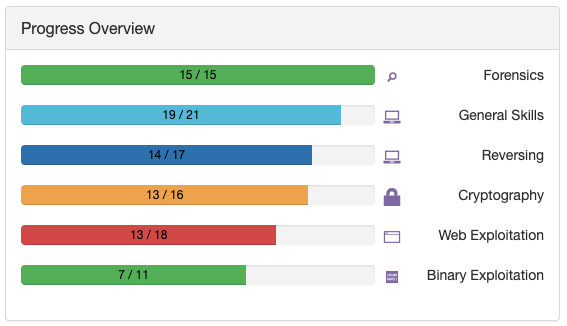
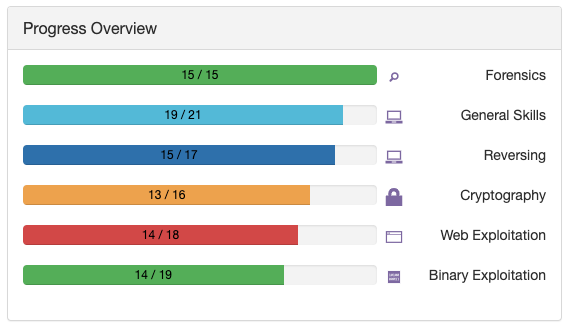
2019/09/05_picoCTF_2018_update

diff --git a/docs/post/picoctf_2018/index.html b/docs/post/picoctf_2018/index.html
@@ -43,15 +43,15 @@
 <meta property="og:type" content="article" />
 <meta property="og:url" content="https://captureamerica.github.io/writeups/post/picoctf_2018/" />
 <meta property="article:published_time" content="2019-08-11T23:00:00&#43;09:00"/>
-<meta property="article:modified_time" content="2019-08-25T22:00:00&#43;09:00"/>
+<meta property="article:modified_time" content="2019-09-05T22:00:00&#43;09:00"/>
 
 <meta itemprop="name" content="picoCTF 2018 Writeup">
 <meta itemprop="description" content="URL: https://2018game.picoctf.com/ すでにイベントは終了してるんですが、続けて勉強ができるようになっているので、他のCTFイベントがない平日とかにちょこちょこやってます。 問">
 
 
 <meta itemprop="datePublished" content="2019-08-11T23:00:00&#43;09:00" />
-<meta itemprop="dateModified" content="2019-08-25T22:00:00&#43;09:00" />
-<meta itemprop="wordCount" content="5583">
+<meta itemprop="dateModified" content="2019-09-05T22:00:00&#43;09:00" />
+<meta itemprop="wordCount" content="6271">
 
 
 
@@ -141,40 +141,45 @@
   <div class="post-toc-content always-active">
     <nav id="TableOfContents">
 <ul>
-<li><a href="#desrouleaux">Desrouleaux</a>
+<li><a href="#forensics-desrouleaux">Forensics: Desrouleaux</a>
 <ul>
 <li><a href="#challenge">Challenge</a></li>
 <li><a href="#solution">Solution</a></li>
 </ul></li>
-<li><a href="#safe-rsa">Safe RSA</a>
+<li><a href="#cryptography-safe-rsa">Cryptography: Safe RSA</a>
 <ul>
 <li><a href="#challenge-1">Challenge</a></li>
 <li><a href="#solution-1">Solution</a></li>
 </ul></li>
-<li><a href="#be-quick-or-be-dead-1">be-quick-or-be-dead-1</a>
+<li><a href="#reversing-be-quick-or-be-dead-1">Reversing: be-quick-or-be-dead-1</a>
 <ul>
 <li><a href="#challenge-2">Challenge</a></li>
 <li><a href="#solution-2">Solution</a></li>
 </ul></li>
-<li><a href="#keygen-me-1">keygen-me-1</a>
+<li><a href="#reversing-keygen-me-1">Reversing: keygen-me-1</a>
 <ul>
 <li><a href="#challenge-3">Challenge</a></li>
 <li><a href="#solution-3">Solution</a></li>
 </ul></li>
-<li><a href="#script-me">script me</a>
+<li><a href="#general-skills-script-me">General Skills: script me</a>
 <ul>
 <li><a href="#challenge-4">Challenge</a></li>
 <li><a href="#solution-4">Solution</a></li>
 </ul></li>
-<li><a href="#loadsomebits">LoadSomeBits</a>
+<li><a href="#forensics-loadsomebits">Forensics: LoadSomeBits</a>
 <ul>
 <li><a href="#challenge-5">Challenge</a></li>
 <li><a href="#solution-5">Solution</a></li>
 </ul></li>
-<li><a href="#keygen-me-2">keygen-me-2</a>
+<li><a href="#reversing-keygen-me-2">Reversing: keygen-me-2</a>
 <ul>
 <li><a href="#challenge-6">Challenge</a></li>
 <li><a href="#solution-6">Solution</a></li>
+</ul></li>
+<li><a href="#reversing-be-quick-or-be-dead-3">Reversing: be-quick-or-be-dead-3</a>
+<ul>
+<li><a href="#challenge-7">Challenge</a></li>
+<li><a href="#solution-7">Solution</a></li>
 </ul></li>
 </ul>
 </nav>
@@ -194,9 +199,9 @@
 
 <p><img src="https://captureamerica.github.io/writeups/img/pico_Score.png" alt="pico_Score.png"></p>
 
-<p>Web Exploitationは、サーバにアクセスできないやつがいくつかあって、進みません。。。</p>
+<p>もう、これくらいやったら十分かなぁ。気が向いたら、もう少しやるかもです。</p>
 
-<p>ReversingとBinary Exploitationは、続けて勉強していきます。その他のCrypto等は、、、もうスルーしようかと思います。</p>
+<p>picoCTF 2019がそろそろ始まりますね (2019年9月末〜)。楽しみ！！</p>
 
 <p><br /><br />
 ここでは、自分のオリジナル感が出るやつとか、自分自身の記録として残しておきたいものだけ書きます。
@@ -205,7 +210,7 @@
 
 <p><br /><br /></p>
 
-<h1 id="desrouleaux">Desrouleaux</h1>
+<h1 id="forensics-desrouleaux">Forensics: Desrouleaux</h1>
 
 <hr />
 
@@ -409,7 +414,7 @@ Hint: If you need to code, python has some good libraries for it.</p>
 <p><br /><br />
 <br /><br /></p>
 
-<h1 id="safe-rsa">Safe RSA</h1>
+<h1 id="cryptography-safe-rsa">Cryptography: Safe RSA</h1>
 
 <hr />
 
@@ -454,7 +459,7 @@ Flag: <code>picoCTF{e_w4y_t00_sm411_34096259}</code></p>
 <p><br /><br />
 <br /><br /></p>
 
-<h1 id="be-quick-or-be-dead-1">be-quick-or-be-dead-1</h1>
+<h1 id="reversing-be-quick-or-be-dead-1">Reversing: be-quick-or-be-dead-1</h1>
 
 <hr />
 
@@ -483,7 +488,7 @@ Hint: What will the key finally be?</p>
 <p><br /><br />
 <br /><br /></p>
 
-<h1 id="keygen-me-1">keygen-me-1</h1>
+<h1 id="reversing-keygen-me-1">Reversing: keygen-me-1</h1>
 
 <hr />
 
@@ -837,7 +842,7 @@ INVALID Product Key.</code></pre></td></tr></table>
 <p><br /><br />
 <br /><br /></p>
 
-<h1 id="script-me">script me</h1>
+<h1 id="general-skills-script-me">General Skills: script me</h1>
 
 <hr />
 
@@ -1139,7 +1144,7 @@ Congratulations, here&#39;s your flag: picoCTF{5cr1pt1nG_l1k3_4_pRo_0466cdd7}
 <p><br /><br />
 <br /><br /></p>
 
-<h1 id="loadsomebits">LoadSomeBits</h1>
+<h1 id="forensics-loadsomebits">Forensics: LoadSomeBits</h1>
 
 <hr />
 
@@ -1271,7 +1276,7 @@ Hint2: If you interpret a binary sequence (seq) as ascii and then try interpreti
 <p><br /><br />
 <br /><br /></p>
 
-<h1 id="keygen-me-2">keygen-me-2</h1>
+<h1 id="reversing-keygen-me-2">Reversing: keygen-me-2</h1>
 
 <hr />
 
@@ -1888,6 +1893,207 @@ Product Activated Successfully: picoCTF{c0n5tr41nt_50lv1nG_15_W4y_f45t3r_3846045
 <p><br /><br />
 <br /><br /></p>
 
+<h1 id="reversing-be-quick-or-be-dead-3">Reversing: be-quick-or-be-dead-3</h1>
+
+<hr />
+
+<h2 id="challenge-7">Challenge</h2>
+
+<blockquote>
+<p>As the <a href="https://www.youtube.com/watch?v=CTt1vk9nM9c">song</a> draws closer to the end, another executable be-quick-or-be-dead-3 suddenly pops up. This one requires even faster machines. Can you run it fast enough too?
+<br /><br />
+Hint: How do you speed up a very repetitive computation?</p>
+</blockquote>
+
+<p>Attachment:</p>
+
+<ul>
+<li>be-quick-or-be-dead-3  (ELF 64-bit)</li>
+</ul>
+
+<p><br /></p>
+
+<h2 id="solution-7">Solution</h2>
+
+<p>まず、Ghidraにかけます。</p>
+
+<p>以下の箇所が再帰関数になっており、時間がかかるところです。</p>
+<div class="highlight"><div class="chroma">
+<table class="lntable"><tr><td class="lntd">
+<pre class="chroma"><code class="language-C" data-lang="C"><span class="lnt"> 1
+</span><span class="lnt"> 2
+</span><span class="lnt"> 3
+</span><span class="lnt"> 4
+</span><span class="lnt"> 5
+</span><span class="lnt"> 6
+</span><span class="lnt"> 7
+</span><span class="lnt"> 8
+</span><span class="lnt"> 9
+</span><span class="lnt">10
+</span><span class="lnt">11
+</span><span class="lnt">12
+</span><span class="lnt">13
+</span><span class="lnt">14
+</span><span class="lnt">15
+</span><span class="lnt">16
+</span><span class="lnt">17
+</span><span class="lnt">18
+</span><span class="lnt">19
+</span><span class="lnt">20
+</span><span class="lnt">21
+</span><span class="lnt">22
+</span><span class="lnt">23
+</span></code></pre></td>
+<td class="lntd">
+<pre class="chroma"><code class="language-C" data-lang="C"><span class="n">ulong</span> <span class="nf">calc</span><span class="p">(</span><span class="n">uint</span> <span class="n">uParm1</span><span class="p">)</span>
+
+<span class="p">{</span>
+  <span class="kt">int</span> <span class="n">iVar1</span><span class="p">;</span>
+  <span class="kt">int</span> <span class="n">iVar2</span><span class="p">;</span>
+  <span class="kt">int</span> <span class="n">iVar3</span><span class="p">;</span>
+  <span class="kt">int</span> <span class="n">iVar4</span><span class="p">;</span>
+  <span class="kt">int</span> <span class="n">iVar5</span><span class="p">;</span>
+  <span class="n">uint</span> <span class="n">local_1c</span><span class="p">;</span>
+  
+  <span class="k">if</span> <span class="p">(</span><span class="n">uParm1</span> <span class="o">&lt;</span> <span class="mi">5</span><span class="p">)</span> <span class="p">{</span>
+    <span class="n">local_1c</span> <span class="o">=</span> <span class="n">uParm1</span> <span class="o">*</span> <span class="n">uParm1</span> <span class="o">+</span> <span class="mh">0x2345</span><span class="p">;</span>
+  <span class="p">}</span>
+  <span class="k">else</span> <span class="p">{</span>
+    <span class="n">iVar1</span> <span class="o">=</span> <span class="n">calc</span><span class="p">((</span><span class="n">ulong</span><span class="p">)(</span><span class="n">uParm1</span> <span class="o">-</span> <span class="mi">1</span><span class="p">));</span>
+    <span class="n">iVar2</span> <span class="o">=</span> <span class="n">calc</span><span class="p">((</span><span class="n">ulong</span><span class="p">)(</span><span class="n">uParm1</span> <span class="o">-</span> <span class="mi">2</span><span class="p">));</span>
+    <span class="n">iVar3</span> <span class="o">=</span> <span class="n">calc</span><span class="p">((</span><span class="n">ulong</span><span class="p">)(</span><span class="n">uParm1</span> <span class="o">-</span> <span class="mi">3</span><span class="p">));</span>
+    <span class="n">iVar4</span> <span class="o">=</span> <span class="n">calc</span><span class="p">((</span><span class="n">ulong</span><span class="p">)(</span><span class="n">uParm1</span> <span class="o">-</span> <span class="mi">4</span><span class="p">));</span>
+    <span class="n">iVar5</span> <span class="o">=</span> <span class="n">calc</span><span class="p">((</span><span class="n">ulong</span><span class="p">)(</span><span class="n">uParm1</span> <span class="o">-</span> <span class="mi">5</span><span class="p">));</span>
+    <span class="n">local_1c</span> <span class="o">=</span> <span class="n">iVar5</span> <span class="o">*</span> <span class="mh">0x1234</span> <span class="o">+</span> <span class="p">(</span><span class="n">iVar1</span> <span class="o">-</span> <span class="n">iVar2</span><span class="p">)</span> <span class="o">+</span> <span class="p">(</span><span class="n">iVar3</span> <span class="o">-</span> <span class="n">iVar4</span><span class="p">);</span>
+  <span class="p">}</span>
+  <span class="k">return</span> <span class="p">(</span><span class="n">ulong</span><span class="p">)</span><span class="n">local_1c</span><span class="p">;</span>
+<span class="p">}</span></code></pre></td></tr></table>
+</div>
+</div>
+<p>ヒントにしたがって、&rdquo;再帰関数 高速化&rdquo; でググってみると、「メモ化」というのがありました。</p>
+
+<p>&ldquo;一度処理した結果を保存しておく方法を「メモ化」といい、保存する量が多くなってくるとメモリの使用量は増えますが、処理が圧倒的に高速になります。&rdquo; とのことです。</p>
+
+<p>Rubyでできるようなので、普段Rubyは使わないのですが、ウェブで見つけたサンプルをならって以下を書きました。</p>
+<div class="highlight"><div class="chroma">
+<table class="lntable"><tr><td class="lntd">
+<pre class="chroma"><code class="language-Ruby" data-lang="Ruby"><span class="lnt"> 1
+</span><span class="lnt"> 2
+</span><span class="lnt"> 3
+</span><span class="lnt"> 4
+</span><span class="lnt"> 5
+</span><span class="lnt"> 6
+</span><span class="lnt"> 7
+</span><span class="lnt"> 8
+</span><span class="lnt"> 9
+</span><span class="lnt">10
+</span><span class="lnt">11
+</span><span class="lnt">12
+</span></code></pre></td>
+<td class="lntd">
+<pre class="chroma"><code class="language-Ruby" data-lang="Ruby"><span class="vi">@memo</span> <span class="o">=</span> <span class="p">{}</span>
+<span class="k">def</span> <span class="nf">calc</span><span class="p">(</span><span class="n">a</span><span class="p">)</span>
+  <span class="k">return</span> <span class="vi">@memo</span><span class="o">[[</span><span class="n">a</span><span class="o">]]</span> <span class="k">if</span> <span class="vi">@memo</span><span class="o">[[</span><span class="n">a</span><span class="o">]]</span>
+  <span class="k">if</span> <span class="n">a</span> <span class="o">&lt;</span> <span class="mi">5</span> <span class="k">then</span>
+    <span class="n">ret</span> <span class="o">=</span> <span class="n">a</span><span class="o">*</span><span class="n">a</span><span class="o">+</span><span class="mh">0x2345</span>
+  <span class="k">else</span>
+    <span class="n">ret</span> <span class="o">=</span> <span class="n">calc</span><span class="p">(</span><span class="n">a</span><span class="o">-</span><span class="mi">5</span><span class="p">)</span><span class="o">*</span><span class="mh">0x1234</span> <span class="o">+</span> <span class="p">(</span><span class="n">calc</span><span class="p">(</span><span class="n">a</span><span class="o">-</span><span class="mi">1</span><span class="p">)</span><span class="o">-</span><span class="n">calc</span><span class="p">(</span><span class="n">a</span><span class="o">-</span><span class="mi">2</span><span class="p">))</span> <span class="o">+</span><span class="p">(</span><span class="n">calc</span><span class="p">(</span><span class="n">a</span><span class="o">-</span><span class="mi">3</span><span class="p">)</span><span class="o">-</span><span class="n">calc</span><span class="p">(</span><span class="n">a</span><span class="o">-</span><span class="mi">4</span><span class="p">))</span>
+  <span class="k">end</span>
+  <span class="vi">@memo</span><span class="o">[[</span><span class="n">a</span><span class="o">]]</span> <span class="o">=</span> <span class="n">ret</span>
+  <span class="k">return</span> <span class="n">ret</span>
+<span class="k">end</span>
+<span class="nb">printf</span><span class="p">(</span><span class="s2">&#34;0x%x</span><span class="se">\n</span><span class="s2">&#34;</span><span class="p">,</span> <span class="n">calc</span><span class="p">(</span><span class="mh">0x18f4b</span><span class="p">)</span> <span class="o">&amp;</span> <span class="mh">0xFFFFFFFF</span> <span class="p">)</span></code></pre></td></tr></table>
+</div>
+</div>
+<p><br />
+最初に実行した際に、以下のエラーが出ました。</p>
+<div class="highlight"><div class="chroma">
+<table class="lntable"><tr><td class="lntd">
+<pre class="chroma"><span class="lnt">1
+</span><span class="lnt">2
+</span></pre></td>
+<td class="lntd">
+<pre class="chroma">$ ruby be-quick-or-be-dead-3_solve.rb 
+be-quick-or-be-dead-3_solve.rb:7:in `calc&#39;: stack level too deep (SystemStackError)</pre></td></tr></table>
+</div>
+</div>
+<p><br />
+これは、RUBY_THREAD_VM_STACK_SIZEという環境変数で回避できるそうなので、テキトーに100MBでやってみました。</p>
+<div class="highlight"><div class="chroma">
+<table class="lntable"><tr><td class="lntd">
+<pre class="chroma"><span class="lnt">1
+</span><span class="lnt">2
+</span><span class="lnt">3
+</span></pre></td>
+<td class="lntd">
+<pre class="chroma">$ export RUBY_THREAD_VM_STACK_SIZE=100000000
+$ ruby be-quick-or-be-dead-3_solve.rb 
+0x2f8cdc3f</pre></td></tr></table>
+</div>
+</div>
+<p><br />
+gdbでcalc()をコールする直前でbreakして、戻り値をセットして、jumpでcalc()をスキップします。</p>
+<div class="highlight"><div class="chroma">
+<table class="lntable"><tr><td class="lntd">
+<pre class="chroma"><span class="lnt"> 1
+</span><span class="lnt"> 2
+</span><span class="lnt"> 3
+</span><span class="lnt"> 4
+</span><span class="lnt"> 5
+</span><span class="lnt"> 6
+</span><span class="lnt"> 7
+</span><span class="lnt"> 8
+</span><span class="lnt"> 9
+</span><span class="lnt">10
+</span><span class="lnt">11
+</span><span class="lnt">12
+</span><span class="lnt">13
+</span><span class="lnt">14
+</span><span class="lnt">15
+</span><span class="lnt">16
+</span><span class="lnt">17
+</span><span class="lnt">18
+</span><span class="lnt">19
+</span><span class="lnt">20
+</span><span class="lnt">21
+</span><span class="lnt">22
+</span><span class="lnt">23
+</span><span class="lnt">24
+</span><span class="lnt">25
+</span></pre></td>
+<td class="lntd">
+<pre class="chroma">gef➤  i b
+Num     Type           Disp Enb Address            What
+1       breakpoint     keep y   0x000000000040079b &lt;calculate_key+9&gt;
+	breakpoint already hit 1 time
+
+gef➤  disas calculate_key
+Dump of assembler code for function calculate_key:
+   0x0000000000400792 &lt;+0&gt;:	push   rbp
+   0x0000000000400793 &lt;+1&gt;:	mov    rbp,rsp
+   0x0000000000400796 &lt;+4&gt;:	mov    edi,0x18f4b
+=&gt; 0x000000000040079b &lt;+9&gt;:	call   0x400706 &lt;calc&gt;
+   0x00000000004007a0 &lt;+14&gt;:	pop    rbp
+   0x00000000004007a1 &lt;+15&gt;:	ret    
+End of assembler dump.
+
+gef➤  set $eax=0x2f8cdc3f
+
+gef➤  jump *0x00000000004007a0
+Continuing at 0x4007a0.
+
+Program received signal SIGALRM, Alarm clock.
+Done calculating key
+Printing flag:
+picoCTF{dynamic_pr0gramming_ftw_22ac7d81}
+[Inferior 1 (process 1492) exited normally]</pre></td></tr></table>
+</div>
+</div>
+<p>Flag: <code>picoCTF{dynamic_pr0gramming_ftw_22ac7d81}</code></p>
+
+<p><br /><br />
+<br /><br /></p>
+
 <hr />
 
 <p><br /><br />
@@ -1903,7 +2109,7 @@ Product Activated Successfully: picoCTF{c0n5tr41nt_50lv1nG_15_W4y_f45t3r_3846045
   <p class="copyright-item">
     <span class="item-title">LastMod</span>
     <span class="item-content">
-        2019-08-25
+        2019-09-05
         
     </span>
   </p>
